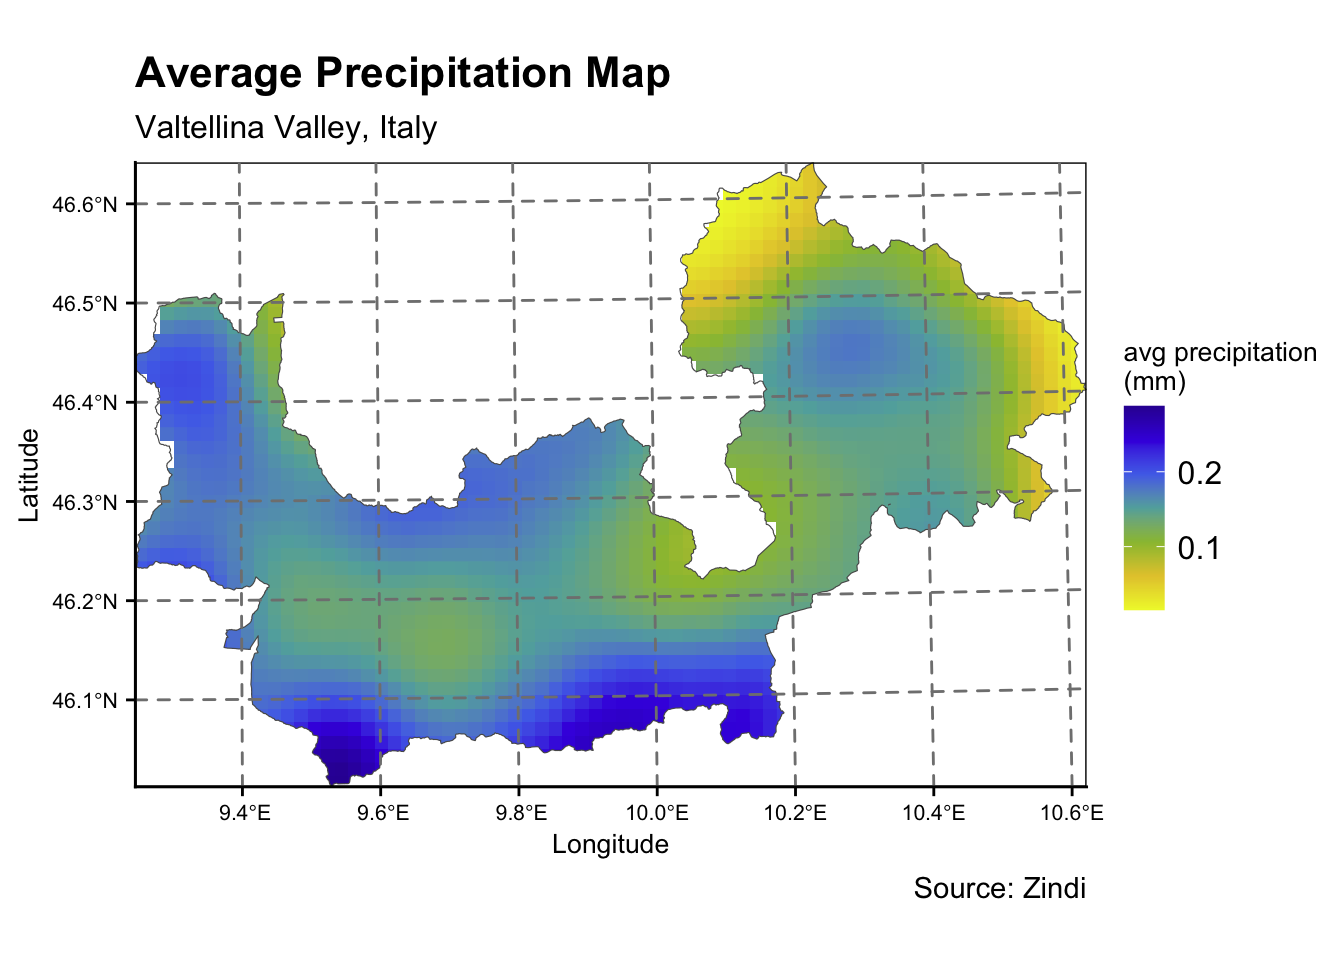
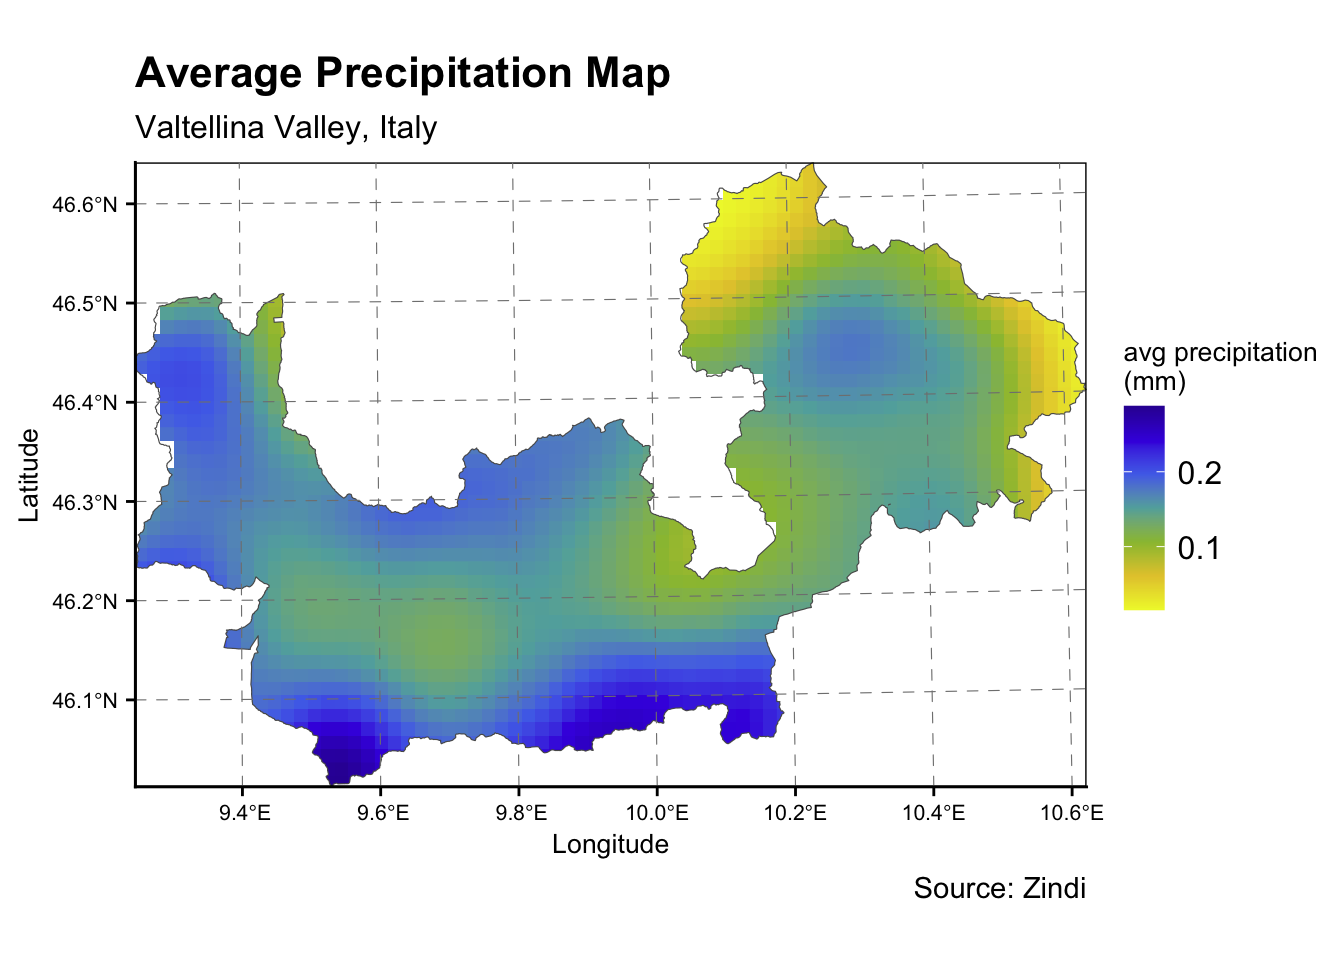
fixed bugs

diff --git a/_site/project.html b/_site/project.html
@@ -324,7 +324,7 @@ pre > code.sourceCode > span > a:first-child::before { text-decoration: underlin
 <span id="cb8-10"><a href="#cb8-10" aria-hidden="true" tabindex="-1"></a>  cowplot<span class="sc">::</span><span class="fu">theme_cowplot</span>()<span class="sc">+</span></span>
 <span id="cb8-11"><a href="#cb8-11" aria-hidden="true" tabindex="-1"></a>  <span class="fu">theme</span>(<span class="at">panel.grid.major =</span> <span class="fu">element_line</span>(<span class="at">color =</span> <span class="fu">gray</span>(.<span class="dv">5</span>),</span>
 <span id="cb8-12"><a href="#cb8-12" aria-hidden="true" tabindex="-1"></a>                                        <span class="at">linetype =</span> <span class="st">'dashed'</span>,</span>
-<span id="cb8-13"><a href="#cb8-13" aria-hidden="true" tabindex="-1"></a>                                        <span class="at">linewidth =</span> <span class="fl">0.5</span>),</span>
+<span id="cb8-13"><a href="#cb8-13" aria-hidden="true" tabindex="-1"></a>                                        <span class="at">linewidth =</span> <span class="fl">0.2</span>),</span>
 <span id="cb8-14"><a href="#cb8-14" aria-hidden="true" tabindex="-1"></a>        <span class="at">panel.grid.minor =</span> <span class="fu">element_blank</span>(),</span>
 <span id="cb8-15"><a href="#cb8-15" aria-hidden="true" tabindex="-1"></a>        <span class="at">panel.background =</span> <span class="fu">element_rect</span>(<span class="at">fill=</span><span class="cn">NA</span>,<span class="at">color =</span> <span class="st">'black'</span>),</span>
 <span id="cb8-16"><a href="#cb8-16" aria-hidden="true" tabindex="-1"></a>        <span class="at">panel.ontop =</span> <span class="cn">TRUE</span>,</span>
